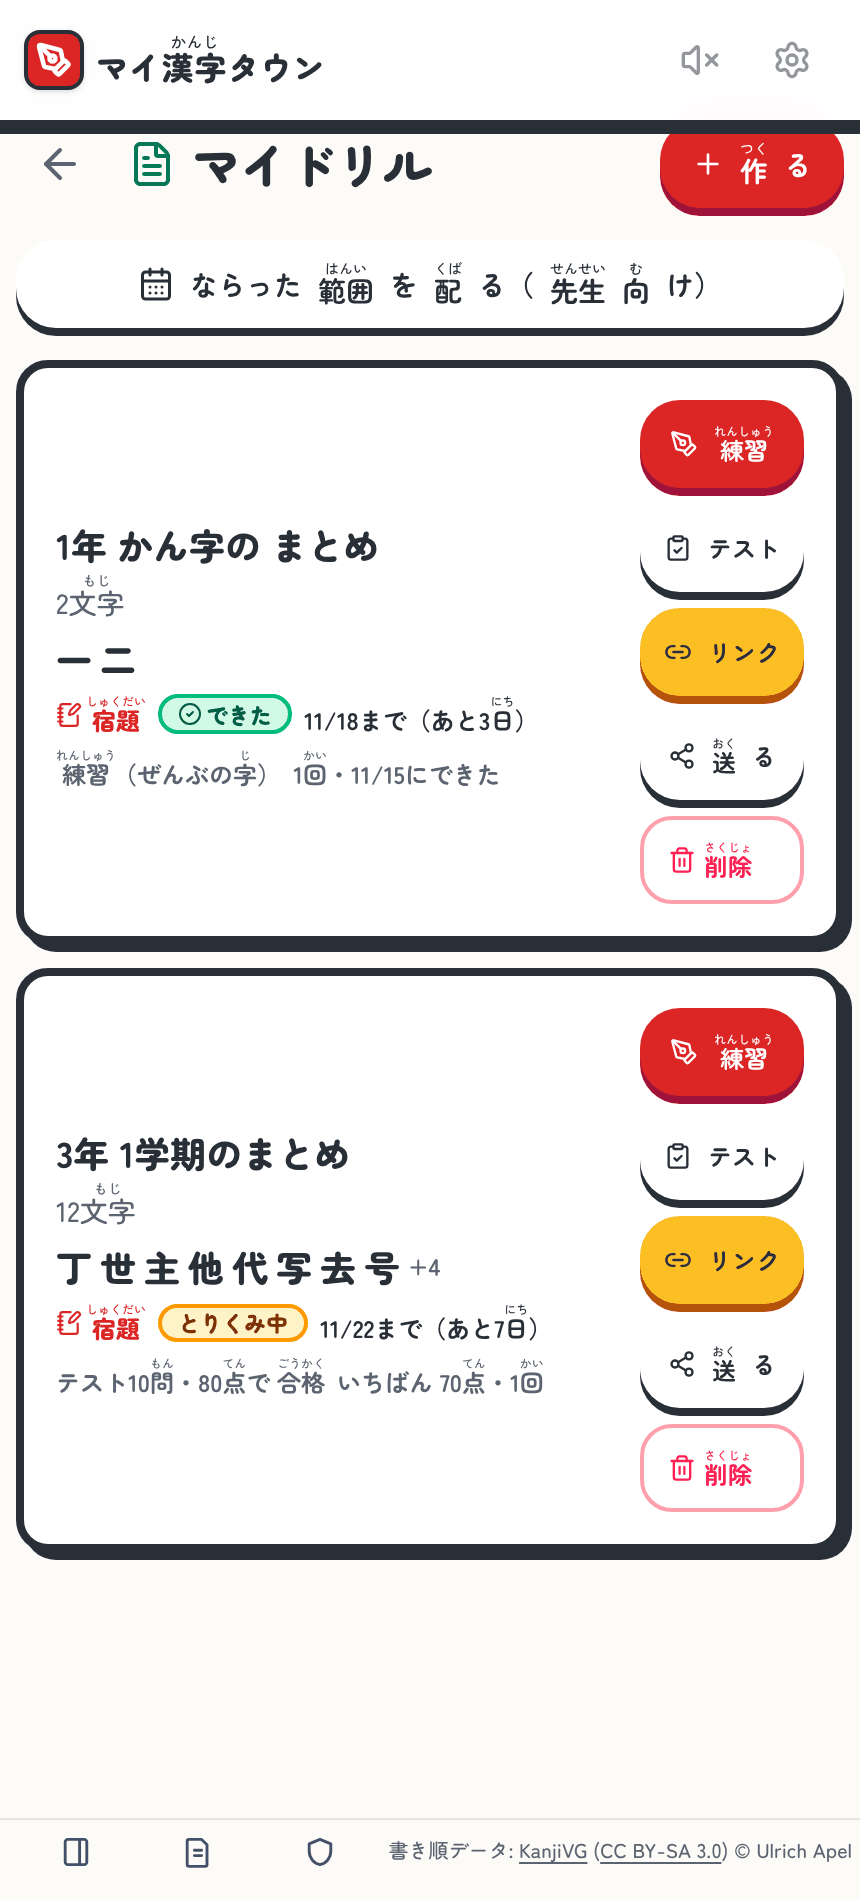
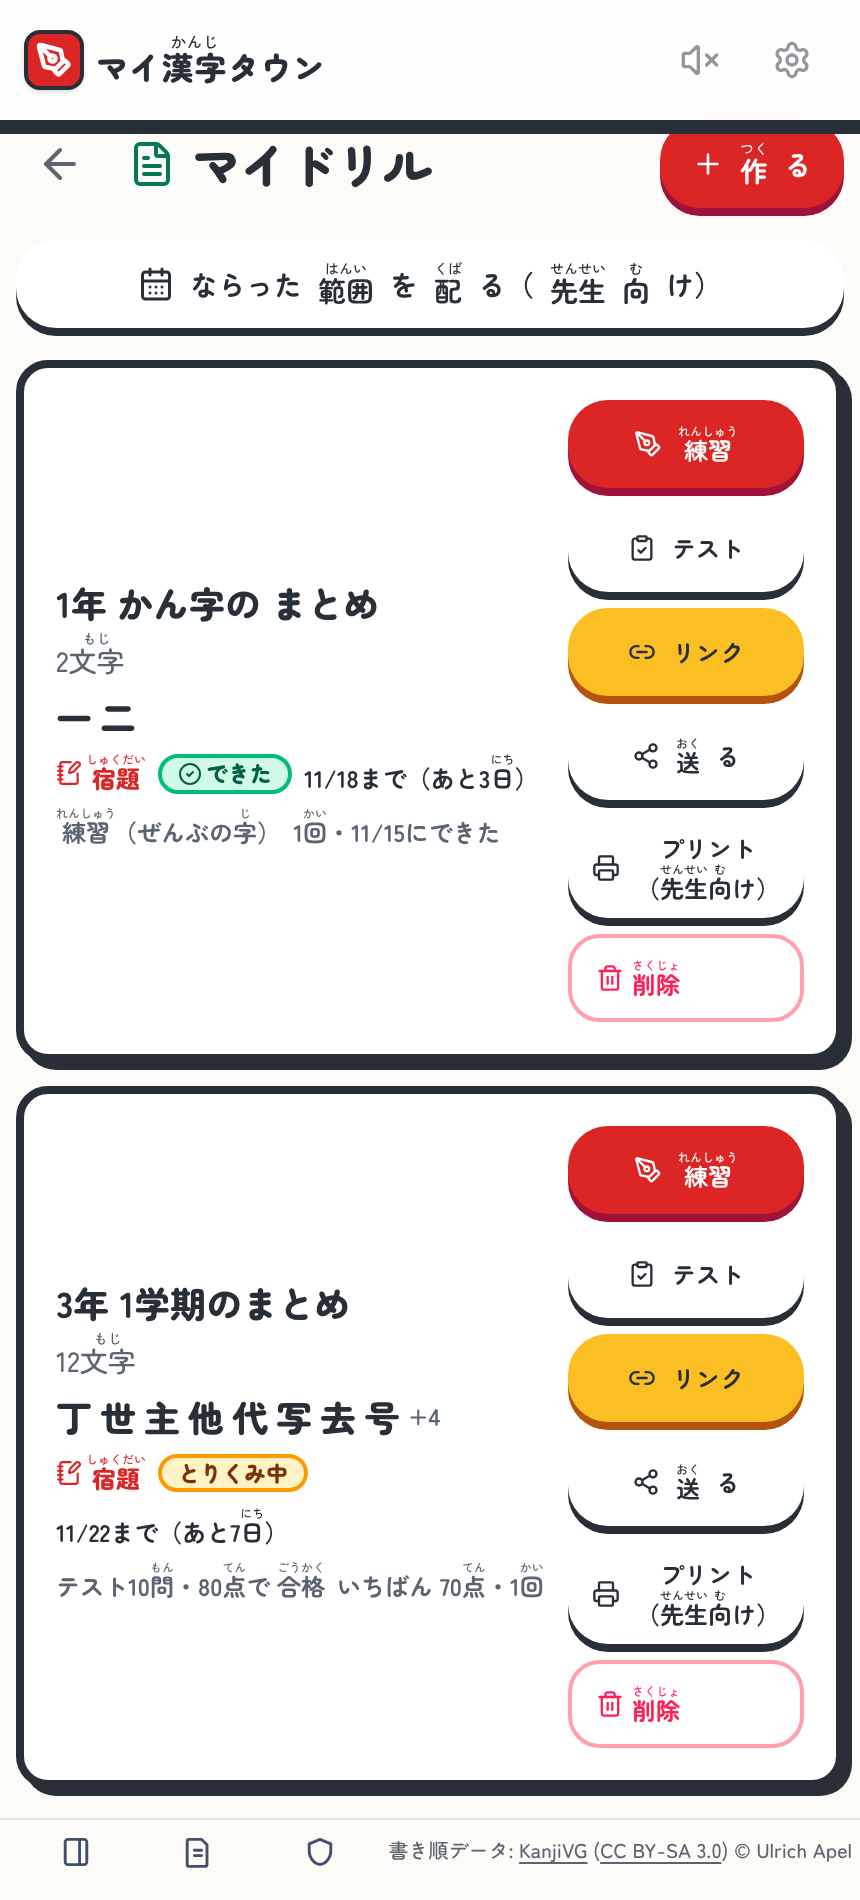
docs: 宿題・ならった範囲・印刷の3つを合わせたマニュアルと更新ログ
- マイドリルのボタンが6つになったので、写真（32・hw-06）を撮りなおし、説明の数を直す
- 「ならった範囲を前もって配る」をマイドリルの章の節にまとめ、目次を70行以内にする
  （lint-manual の警告 0 件）
- 更新ログに、宿題・ならった範囲・紙のテスト・同じドリルを二重に保存しないことの4行を足す

Claude-Session: https://claude.ai/code/session_01UfLrwEe3Pi7kTxWbTVWJ6o

diff --git a/docs/manual/manual.md b/docs/manual/manual.md
@@ -774,7 +774,7 @@ Safari には アプリの中の ボタンが ありません。手で ついか
 
 ![保存したドリル](images/32-drill-saved.png)
 
-赤い枠の5つが、ドリルごとのボタンです。
+赤い枠の6つが、ドリルごとのボタンです。
 
 ![問題数を選ぶ](images/33-drill-test-count.png)
 
@@ -932,13 +932,11 @@ Safari には アプリの中の ボタンが ありません。手で ついか
 - アプリで <ruby>練習<rt>れんしゅう</rt></ruby>した 文と おなじ 文が 出ます
 - わからない ところは あけておいて、さいごに もう<ruby>一度<rt>いちど</rt></ruby> 見なおしましょう
 
-## ならった範囲を 前もって 配る（先生向け）
+### ならった範囲を前もって配る（先生向け）
 
 授業で習った字だけを、児童の毎日の学習の「新出」（はじめて習う字）に出すしくみです。
 1週目・2週目…のように段に分け、段ごとに「この日から」を決めて、前もってまとめて配れます。
 復習は今までどおり、習ったすべての字から出ます。
-
-### 範囲を作る
 
 マイドリル画面の「ならった範囲を配る（先生向け）」から開きます。
 
@@ -959,9 +957,7 @@ Safari には アプリの中の ボタンが ありません。手で ついか
 
 赤い枠が1つの段です。段ごとに「この日から」と字を決めます。
 
-### リンクで配る
-
-「リンクを作る」を押すと、配る画面になります。
+配る手順: 「リンクを作る」を押すと、配る画面になります。
 URLをコピーするか、「Google Classroom で共有する」を押してください。URLが短いときはQRコードも出ます。
 
 児童がリンクを開くと、確かめの画面のあとで範囲が使われます。

diff --git a/docs/CHANGELOG.md b/docs/CHANGELOG.md
@@ -3,6 +3,10 @@
 マイ漢字タウンの変わったところです。
 
 ## 2026-11-15
+- マイドリルを、しめきりつきの宿題として配れるようにしました
+- 授業で習った字だけを、日付を決めて前もって配れるようにしました
+- マイドリルから、紙で配る縦書きの漢字テストを印刷できるようにしました
+- 同じドリルのリンクをもう一度開いても、2つ保存されないようにしました
 - 書き順と書体をアプリに入れ、学校のネットが止められていても使えるようにしました
 - 4〜6年の漢字の学年わけを、いまの教科書に合わせました
 - 漢字の読みを、常用漢字表の読みに合わせました
